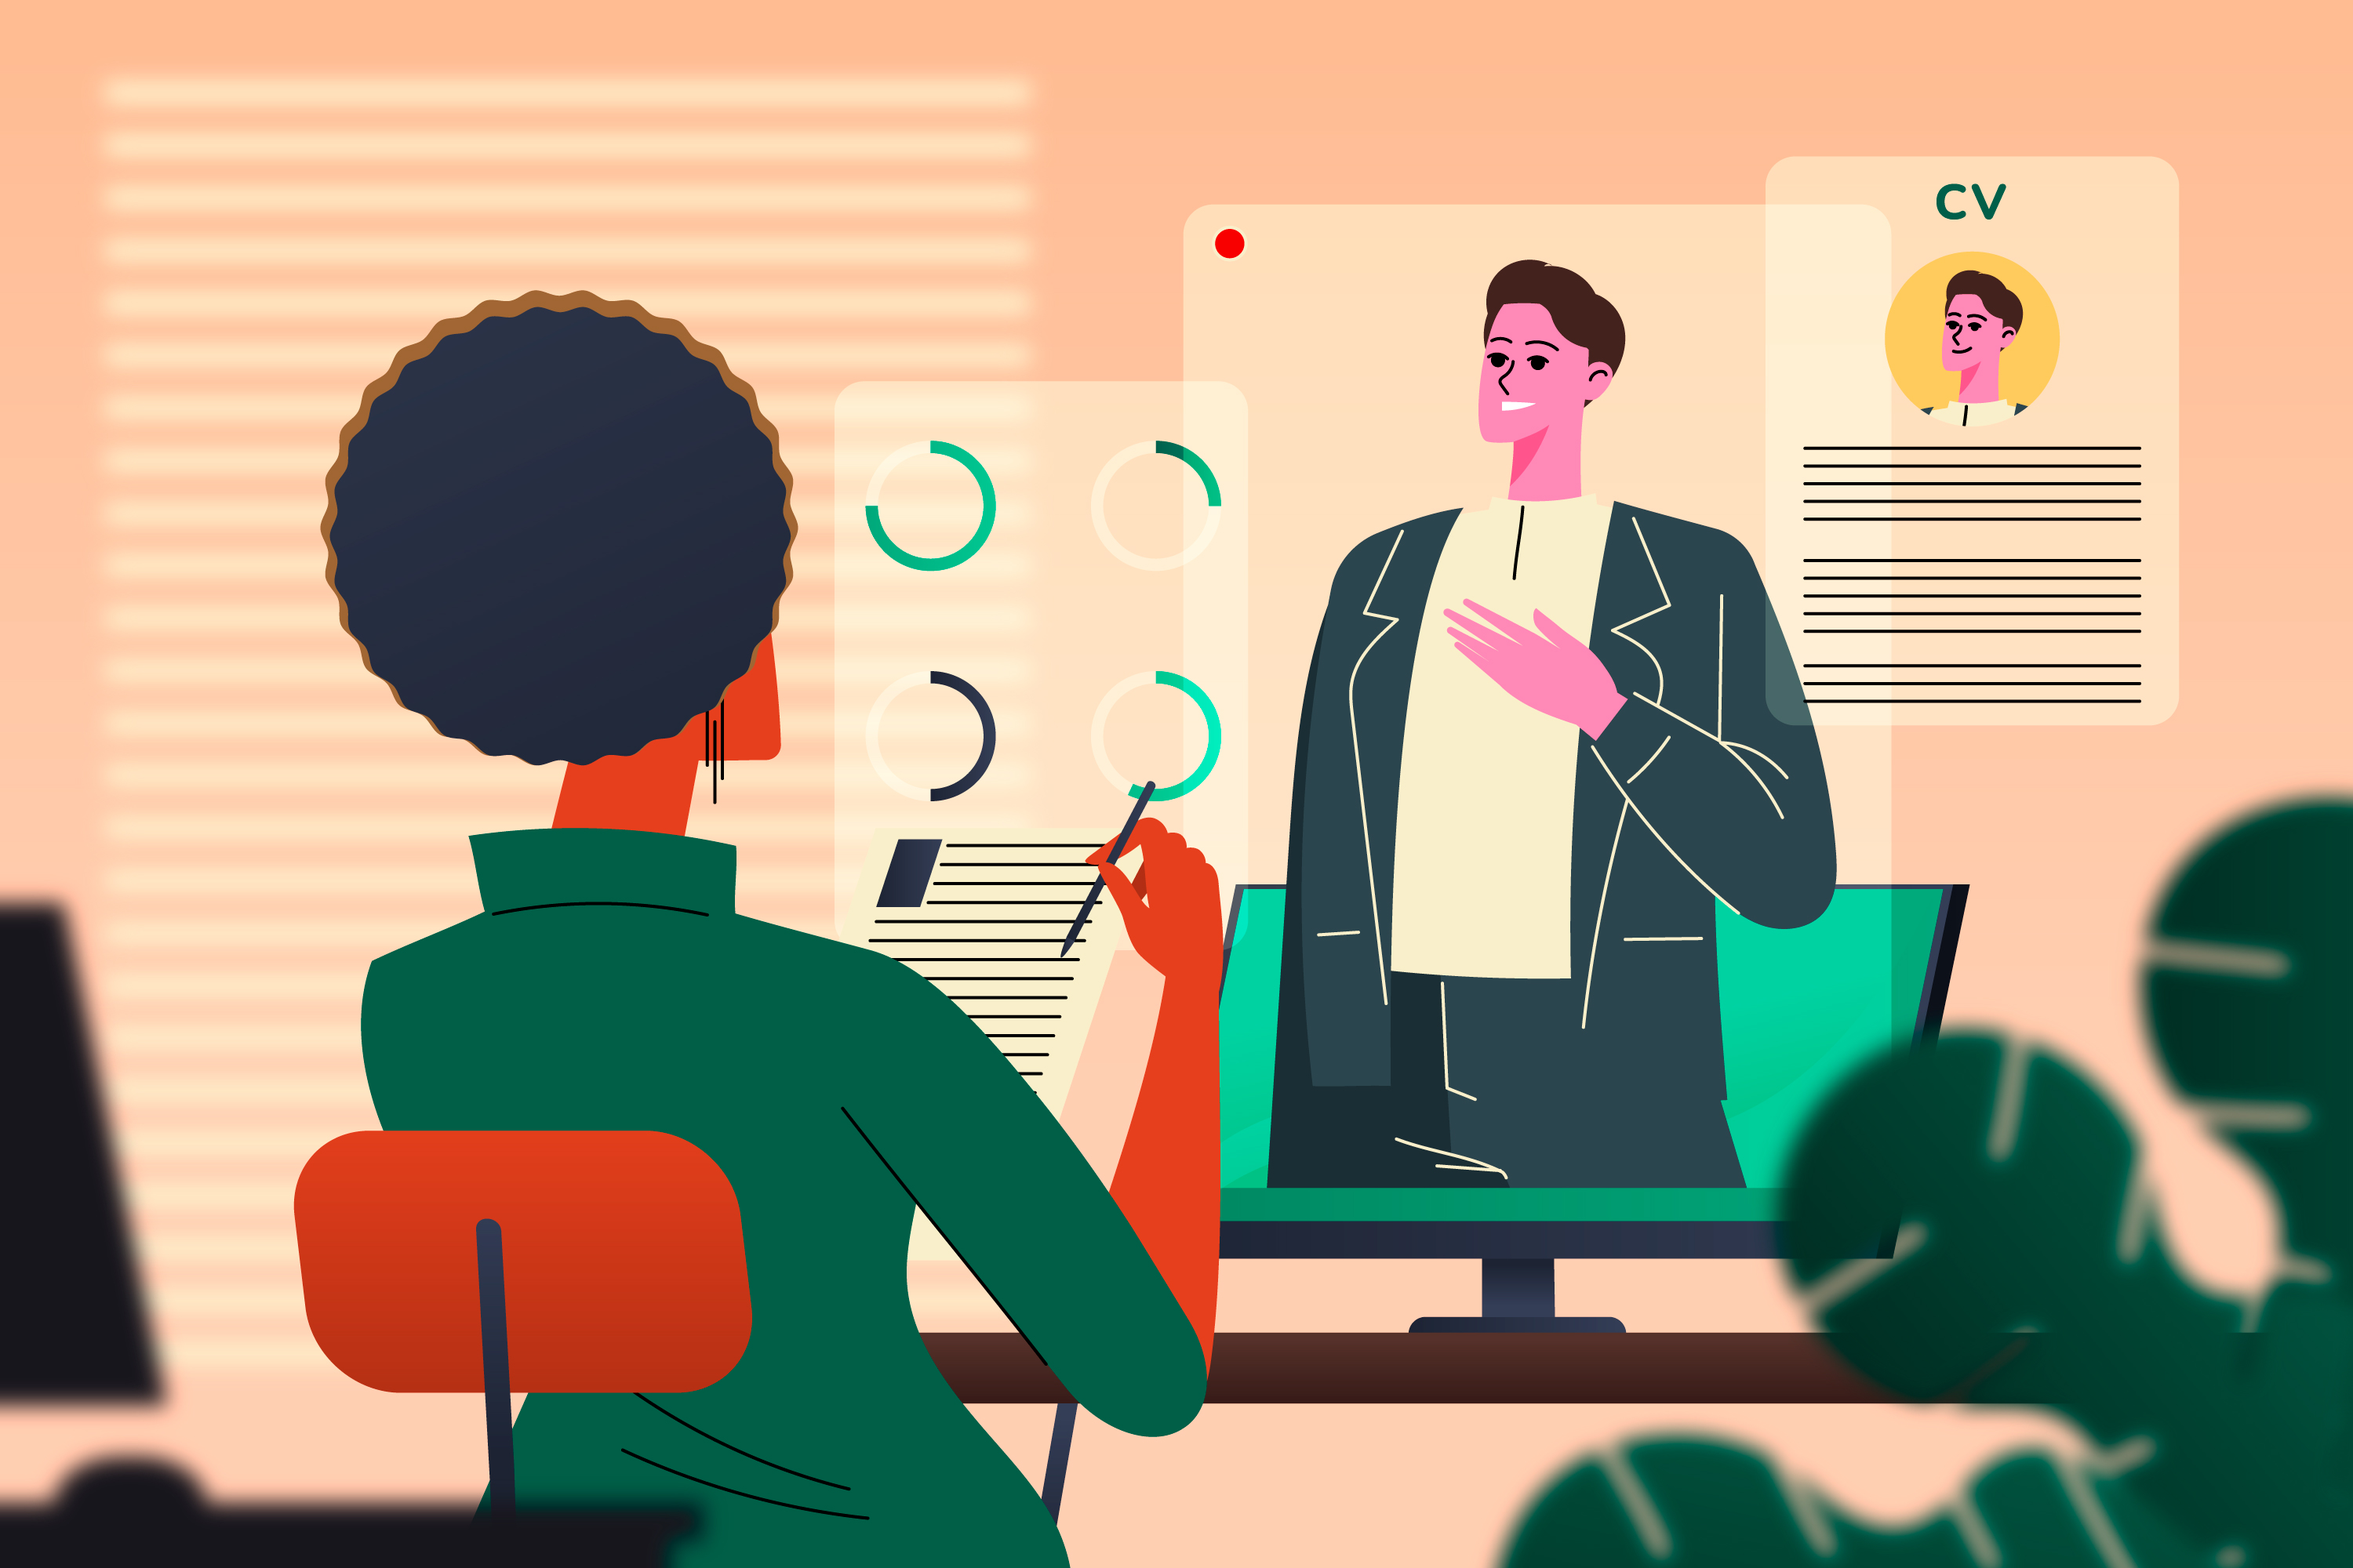
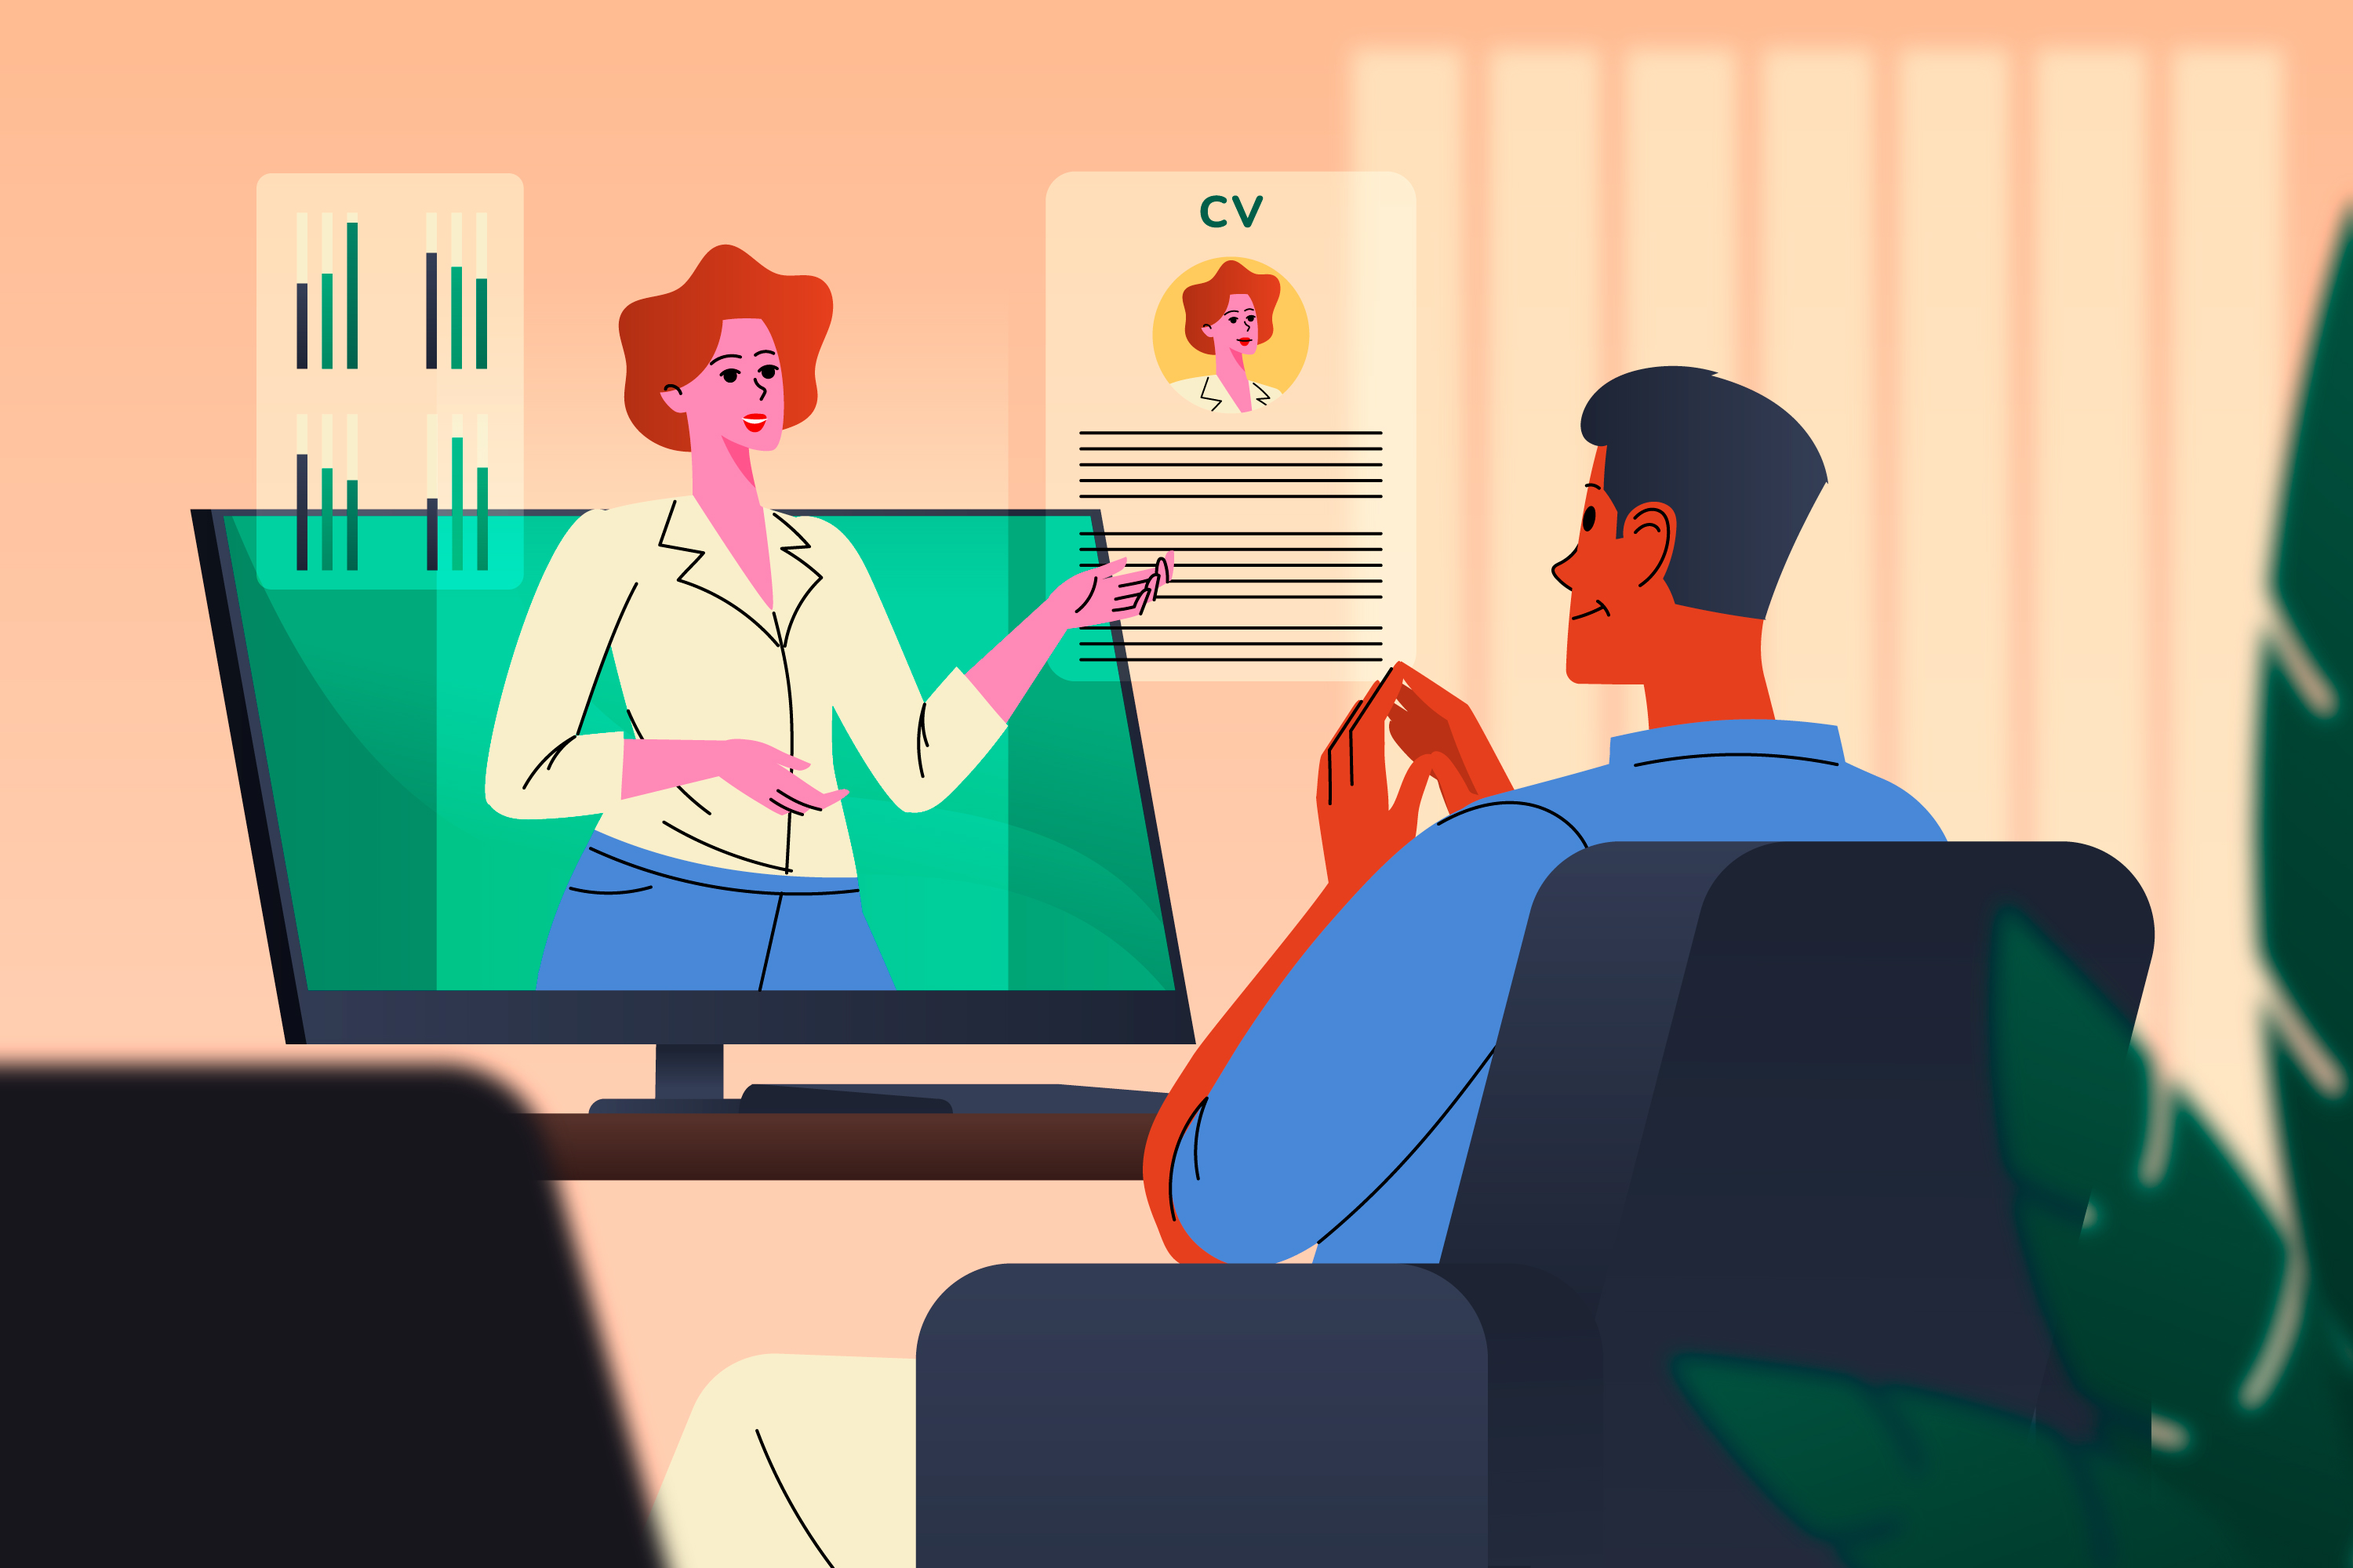
Refines video preview UI and interview illustration layout
Improves visual consistency and accessibility by adjusting button styles,
icon colors, and element spacing in the video preview. Updates the
placement and sizing of the interview illustration for better alignment
and presentation. Refreshes illustration asset for enhanced appearance.

diff --git a/features/media-setup/components/video-preview.tsx b/features/media-setup/components/video-preview.tsx
@@ -53,21 +53,16 @@ const VideoPreview: React.FC<VideoPreviewProps> = ({
       <div className="absolute top-2 right-2">
         <Button
           onClick={() => setOpenDeviceSettings(true)}
-          className="w-10 h-10 rounded-full flex items-center justify-center bg-transparent hover:bg-accent/10"
+          className="w-10 h-10 rounded-full flex items-center justify-center bg-muted hover:bg-muted-foreground"
         >
           <EllipsisVertical className="w-5 h-5" />
         </Button>
       </div>
 
-      <div className="absolute bottom-3 right-3">
+      <div className="absolute top-2 left-2">
         <Tooltip>
           <TooltipTrigger asChild>
-            <Button
-              className="w-10 h-10 rounded-full flex items-center justify-center hover:bg-accent/10"
-              style={{
-                backgroundColor: "hsl(0 84% 60%)",
-              }}
-            >
+            <Button className="w-10 h-10 rounded-full flex items-center justify-center bg-muted hover:bg-muted-foreground">
               <Info className="w-5 h-5" />
             </Button>
           </TooltipTrigger>
@@ -95,12 +90,11 @@ const VideoPreview: React.FC<VideoPreviewProps> = ({
           {cameraEnabled ? (
             <Video className="w-5 h-5 text-card-foreground" />
           ) : (
-            <VideoOff className="w-5 h-5 text-white" />
+            <VideoOff className="w-5 h-5" />
           )}
         </Button>
         <Button
           onClick={toggleMic}
-          size={"lg"}
           className="w-10 h-10 rounded-full flex items-center justify-center transition-colors"
           style={{
             backgroundColor: micEnabled ? "var(--card)" : "hsl(0 84% 60%)",
@@ -109,7 +103,7 @@ const VideoPreview: React.FC<VideoPreviewProps> = ({
           {micEnabled ? (
             <Mic className="w-5 h-5 text-card-foreground" />
           ) : (
-            <MicOff className="w-5 h-5 text-white" />
+            <MicOff className="w-5 h-5" />
           )}
         </Button>
       </div>

diff --git a/app/interview/[interviewId]/interview-join-wrapper.tsx b/app/interview/[interviewId]/interview-join-wrapper.tsx
@@ -27,7 +27,7 @@ const InterviewJoinWrapper: React.FC<InterviewJoinProps> = ({
   return (
     <div className="min-h-screen flex items-center justify-center p-3">
       <Card className="w-full max-w-5xl p-0 mx-auto overflow-hidden shadow-none">
-        <div className="p-3 pt-6 space-y-6">
+        <div className="p-3 space-y-3">
           <InterviewDetails
             title={interviewData.title}
             userName={interviewData.userName}
@@ -35,11 +35,11 @@ const InterviewJoinWrapper: React.FC<InterviewJoinProps> = ({
             duration={interviewData.duration}
           />
 
-          <div className="border rounded-lg">
+          <div className="border mx-auto rounded-lg w-120">
             <Image
               src={InterviewIllustration}
               alt="Interview Illustration"
-              className="w-full aspect-video mx-auto object-cover rounded-lg"
+              className="aspect-video object-cover rounded-lg"
             />
           </div>
 
